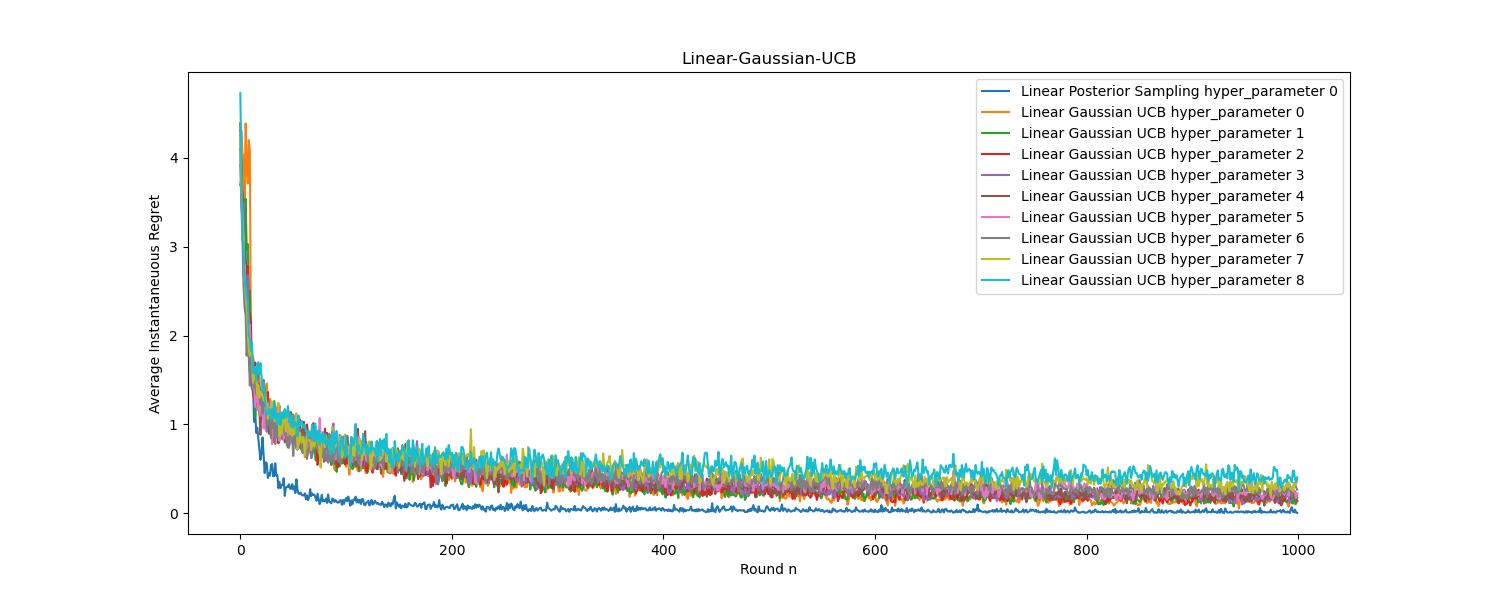
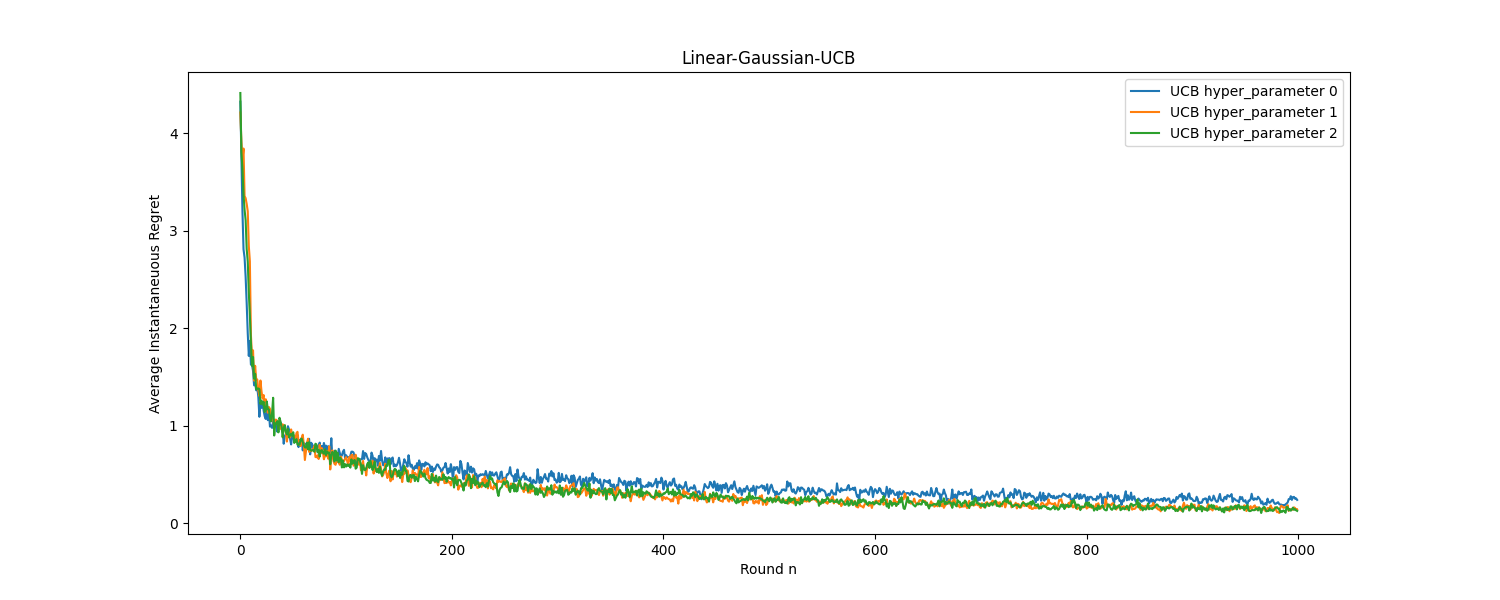
Implementing Bayesian Optimization for multi-dimensional regret confidence sets

diff --git a/src/game/partial_information_game.py b/src/game/partial_information_game.py
@@ -3,15 +3,16 @@ from numpy import random
 from game.game import Game
 import matplotlib.pyplot as plt
 from scipy.optimize import minimize_scalar, Bounds, minimize
+from bayes_opt import BayesianOptimization
 
 class Partial_Information_Game(Game):
     def __init__(self, bandit_algorithm):
         super().__init__(bandit_algorithm)
 
-    def simulate_one_run(self, hyperparameter):
+    def simulate_one_run(self, hyperparameters):
         # initialize the data structures
         # to hold the losses of each arm
-        self.bandit_algorithm.data_generating_mechanism.initialize_parameters(hyperparameter)
+        self.bandit_algorithm.data_generating_mechanism.initialize_parameters(hyperparameters)
         importance_weighted_history = np.zeros(shape = (self.data_generating_mechanism.get_K(), 
                                                         self.data_generating_mechanism.get_T()))
         
@@ -58,15 +59,18 @@ class Partial_Information_Game(Game):
 
         return regret
     
-    def simulate_all_runs(self, hyperparameter):
-        print("Simulating with parameter {}".format(hyperparameter))
+    def simulate_all_runs(self, hyperparameters):
+        print("Simulating with parameter {}".format(hyperparameters))
         num_runs = self.data_generating_mechanism.get_M()
         final_regret = np.zeros(shape = num_runs)
         for i in range(0, num_runs):
-            final_regret[i] = self.simulate_one_run(hyperparameter)[self.data_generating_mechanism.get_T() - 1]
+            final_regret[i] = self.simulate_one_run(hyperparameters)[self.data_generating_mechanism.get_T() - 1]
         ave_regret = np.average(final_regret)
         print(ave_regret)
         return ave_regret
+    
+    def wrapper(self, **hyperparameters):
+        return -1 * self.simulate_all_runs(hyperparameters)
     
     def find_minimum(self, starting_values, bounds):
         results = dict()
@@ -75,9 +79,17 @@ class Partial_Information_Game(Game):
                            method='Nelder-Mead', 
                            x0 = starting_values, 
                            bounds=bounds)
-        '''
         results = minimize_scalar(self.simulate_all_runs, bounds = (0, 1))
-        print(results)
+        '''
+        optimizer = BayesianOptimization(
+            f = self.wrapper,
+            pbounds = {'lambda': (0.0001, 5), 
+                       'delta': (0.0000001, 0.1)},
+            random_state=0,
+            verbose=0
+        )
+        optimizer.maximize(init_points = 2, n_iter = 25)
+        print(optimizer.max)
 
     def grid_search(self, grid_values):
         print(np.shape(grid_values))

diff --git a/scripts/linear_gaussian_ucb_simulations.py b/scripts/linear_gaussian_ucb_simulations.py
@@ -16,12 +16,9 @@ import numpy as np
 import math
 np.random.seed(0)
 
-linear_gaussian_stochastic_data_job_1 = Linear_Gaussian_Stochastic()
-linear_gaussian_ucb_1 = Linear_Gaussian_UCB(linear_gaussian_stochastic_data_job_1)
-
+'''
 linear_ps_data_job_1 = Linear_Posterior_Sampling_Stochastic()
 linear_thompson_sampling = Linear_Posterior_Sampling(linear_ps_data_job_1)
-
 
 ucb_algo = Linear_Gaussian_UCB(UCB_Mixture_Mechanism())
 ucb_hyperparameters = [0.05, 0.1, 0.2, 0.3, 0.4, 0.5]
@@ -31,27 +28,22 @@ partial_info_ground = Partial_Info_Play_Ground(bandit_algorithms=[ucb_algo],
                                               plot_directory = "/Users/sidbajaj/MultiArmedBandits/results/linear_gaussian_ucb_simulations/")
 partial_info_ground.plot_results()
 partial_info_ground.games[0].find_minimum([0.3], Bounds([0], [1]))
-
 '''
-gaussian_ucb_values = [[0.01,0.001], 
-               [0.1,0.001], 
-               [0.3,0.001], 
-               [0.5,0.001], 
-               [0.7,0.001], 
-               [1.1,0.001], 
-               [1.5,0.001], 
-               [4,0.001],
-               [10,0.001]]
+
+linear_gaussian_stochastic_data_job_1 = Linear_Gaussian_Stochastic()
+linear_gaussian_ucb_1 = Linear_Gaussian_UCB(linear_gaussian_stochastic_data_job_1)
+gaussian_ucb_values = [{'lambda': 1.0, 'delta': 0.001},
+                       {'lambda': 0.1, 'delta': 0.001}, 
+                       {'lambda': 0.1885, 'delta': 0.0083}]
 
 ts_hyperparameter = [[np.zeros(10), 10 * np.identity(10)]]
 
-partial_info_ground = Partial_Info_Play_Ground(bandit_algorithms=[linear_thompson_sampling, 
-                                                                  linear_gaussian_ucb_1],
-                                              hyperparameters = [ts_hyperparameter ,gaussian_ucb_values],
+partial_info_ground = Partial_Info_Play_Ground(bandit_algorithms=[linear_gaussian_ucb_1],
+                                              hyperparameters = [gaussian_ucb_values],
                                               plot_label = "Linear-Gaussian-UCB",
                                               plot_directory = "/Users/sidbajaj/MultiArmedBandits/results/linear_gaussian_ucb_simulations/")
-partial_info_ground.plot_results()
-'''
+#partial_info_ground.plot_results()
+partial_info_ground.games[0].find_minimum([0.3], Bounds([0], [1]))
 
 '''
 grid_values = [[0.01,0.001], 

diff --git a/src/data_generating_mechanism/linear_gaussian_mechanism.py b/src/data_generating_mechanism/linear_gaussian_mechanism.py
@@ -17,15 +17,13 @@ class Linear_Gaussian_Stochastic(Data_Generating_Mechanism):
                          num_runs = 100, 
                          init_exploration = init_exploration)
         
-    def initialize_parameters(self, hyperparameter):
-        self.lambda_reg = hyperparameter[0]
-        self.delta = hyperparameter[1]
+    def initialize_parameters(self, hyperparameters):
+        self.lambda_reg = hyperparameters['lambda']
+        self.delta = hyperparameters['delta']
         self.V = self.lambda_reg * np.identity(10)
         self.theta_hat = np.zeros(self.d)
         self.b = np.zeros(self.d)
-        self.theta_star = np.random.multivariate_normal(self.posterior_mean, 
-                                                         self.posterior_covariance, 
-                                                         size = 1)[0] 
+        self.theta_star = np.random.normal(loc = self.posterior_mean[0], scale = np.sqrt(self.posterior_covariance[0][0]), size = 10)
         # (num_arms x d) matrix
         self.feature_vectors = np.reshape(np.random.uniform(low = -1/np.sqrt(self.d), 
                                                 high = 1/np.sqrt(self.d), 

diff --git a/src/data_generating_mechanism/ucb_mixture_mechanism.py b/src/data_generating_mechanism/ucb_mixture_mechanism.py
@@ -10,6 +10,8 @@ class UCB_Mixture_Mechanism(Data_Generating_Mechanism):
         self.d = d
         self.low_gap_mean_vector = np.random.uniform(low = 0, high = 0.25, size = self.d)
         self.high_gap_mean_vector = np.random.uniform(low = 0, high = 2.5, size = self.d)
+        self.gamma = 0.3
+        print(self.gamma * self.low_gap_mean_vector + (1 - self.gamma) * self.high_gap_mean_vector)
         super().__init__(time_horizon = time_horizon, 
                          mu_arms = np.zeros(shape = d), 
                          num_runs = 1000, 
@@ -39,7 +41,7 @@ class UCB_Mixture_Mechanism(Data_Generating_Mechanism):
         if (t == 0):
             return np.inf
         else:
-            return self.mean_estimates[j] + (self.confidence_width * np.sqrt(2 * np.log(t) / self.num_times_arm[j]))
+            return self.mean_estimates[j] + (self.confidence_width * np.sqrt(2 * np.log(t + 1) / self.num_times_arm[j]))
 
     def get_rewards(self, t):
         errors = np.random.normal(size = self.d)
